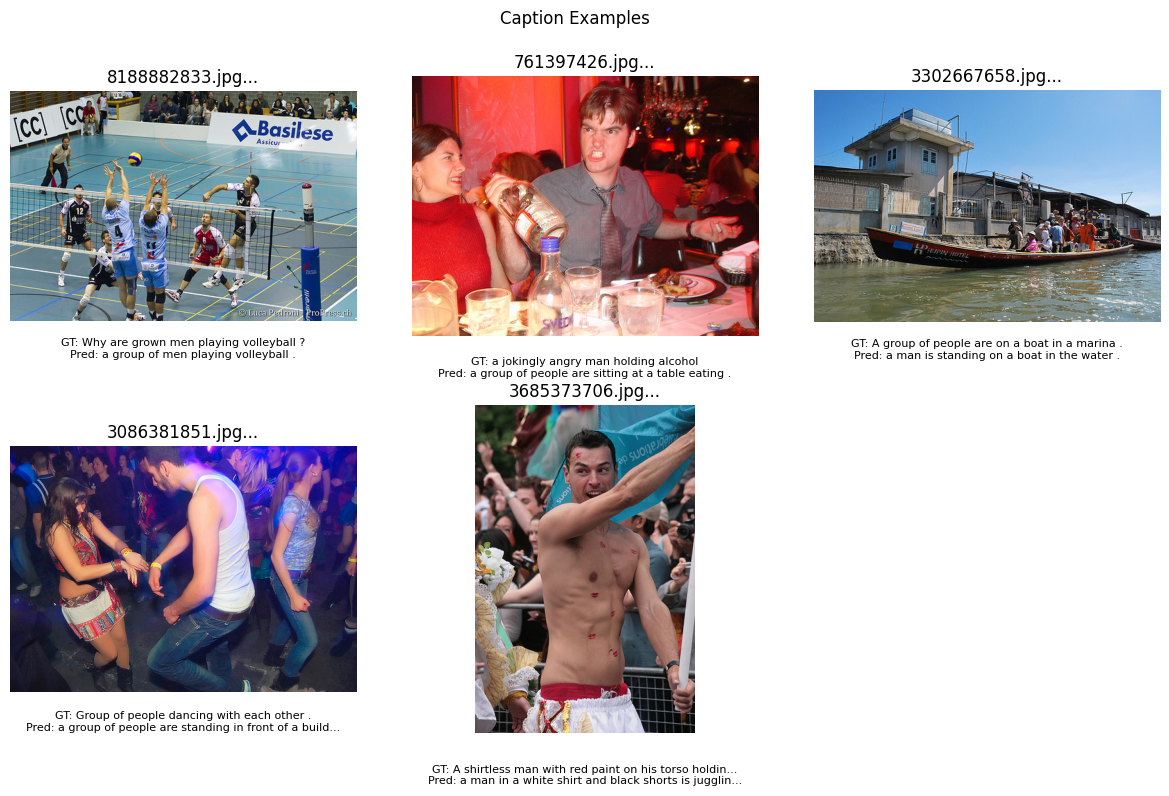
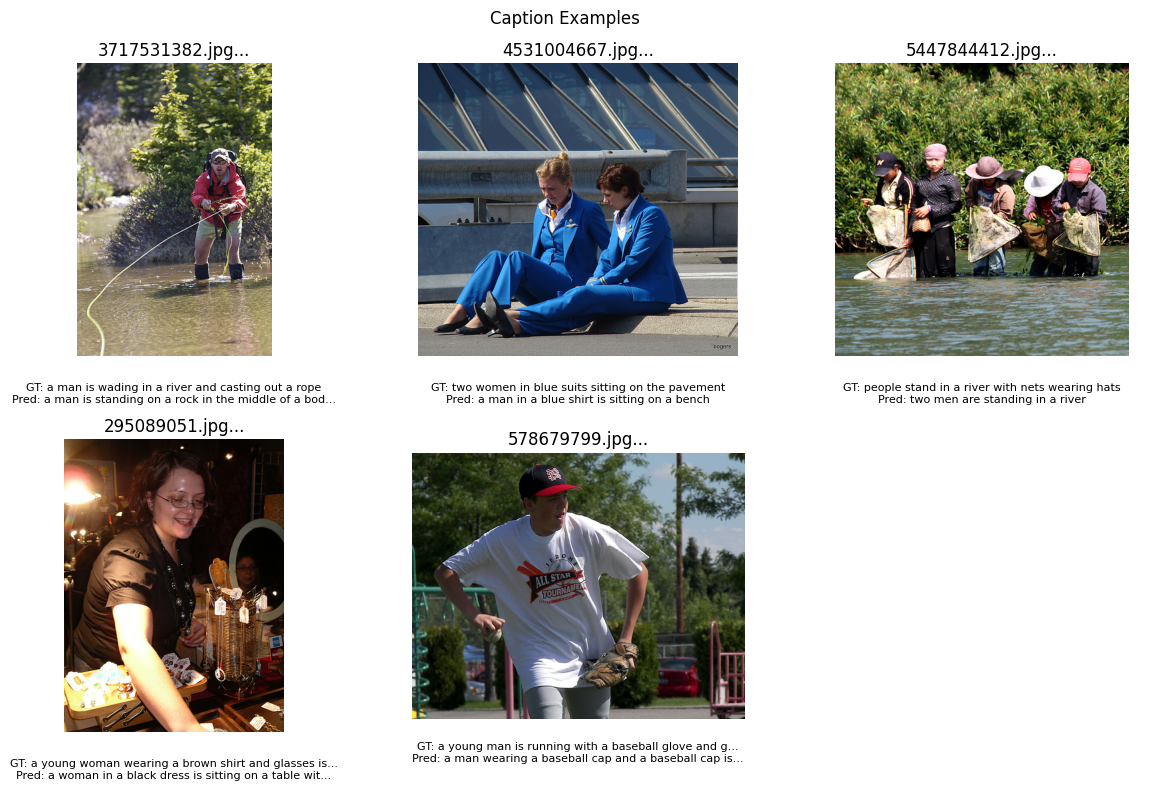
Gru

diff --git a/train.py b/train.py
@@ -1,9 +1,18 @@
 import pickle
+import re
 from collections import Counter
 import torch
 import torch.nn as nn
 from torch.utils.data import Dataset, DataLoader, random_split
 from tqdm import tqdm
+
+
+def sanitize_caption(text):
+    """Keep only letters (a-z), lowercase, and normalize spaces."""
+    text = text.lower().strip()
+    text = re.sub(r"[^a-z\s]", " ", text)
+    text = re.sub(r"\s+", " ", text).strip()
+    return text
 
 
 class Vocabulary:
@@ -15,7 +24,7 @@ class Vocabulary:
         self.min_freq = min_freq
 
     def _tokenize(self, text):
-        return text.lower().strip().split()
+        return sanitize_caption(text).split()
 
     def build(self, captions):
         count = Counter()
@@ -46,7 +55,7 @@ def load_captions(path):
     for line in lines[1 if "image" in lines[0].lower() else 0:]:
         if "," in line:
             img, cap = line.strip().split(",", 1)
-            cap = cap.strip('"').strip()
+            cap = sanitize_caption(cap.strip('"').strip())
             if cap:
                 pairs.append((img.strip(), cap))
     return pairs
@@ -70,15 +79,14 @@ class ImageCaptioner(nn.Module):
         self.encoder = Encoder(2048, hidden)
         self.embed = nn.Embedding(vocab_size, embed, padding_idx=0)
         self.embed_dropout = nn.Dropout(dropout)
-        self.lstm = nn.LSTM(embed, hidden, batch_first=True, dropout=0)
+        self.gru = nn.GRU(embed, hidden, batch_first=True)
         self.fc_dropout = nn.Dropout(dropout)
         self.fc = nn.Linear(hidden, vocab_size)
 
     def forward(self, feats, caps):
         h = self.encoder(feats).unsqueeze(0)
-        c = h.new_zeros(h.size())
         emb = self.embed_dropout(self.embed(caps[:, :-1]))
-        out, _ = self.lstm(emb, (h, c))
+        out, _ = self.gru(emb, h)
         out = self.fc_dropout(out)
         return self.fc(out)
 
@@ -87,13 +95,12 @@ def greedy_search(model, feat, vocab, max_len=50, device="cpu"):
     model.eval()
     feat = feat.to(device).unsqueeze(0)
     h = model.encoder(feat).unsqueeze(0)
-    c = h.new_zeros(h.size())
     tokens = [1]
     with torch.no_grad():
         for _ in range(max_len - 1):
             x = torch.tensor([[tokens[-1]]], dtype=torch.long, device=device)
             emb = model.embed(x)
-            out, (h, c) = model.lstm(emb, (h, c))
+            out, h = model.gru(emb, h)
             logits = model.fc(out.squeeze(1))
             next_id = logits.argmax(dim=-1).item()
             tokens.append(next_id)
